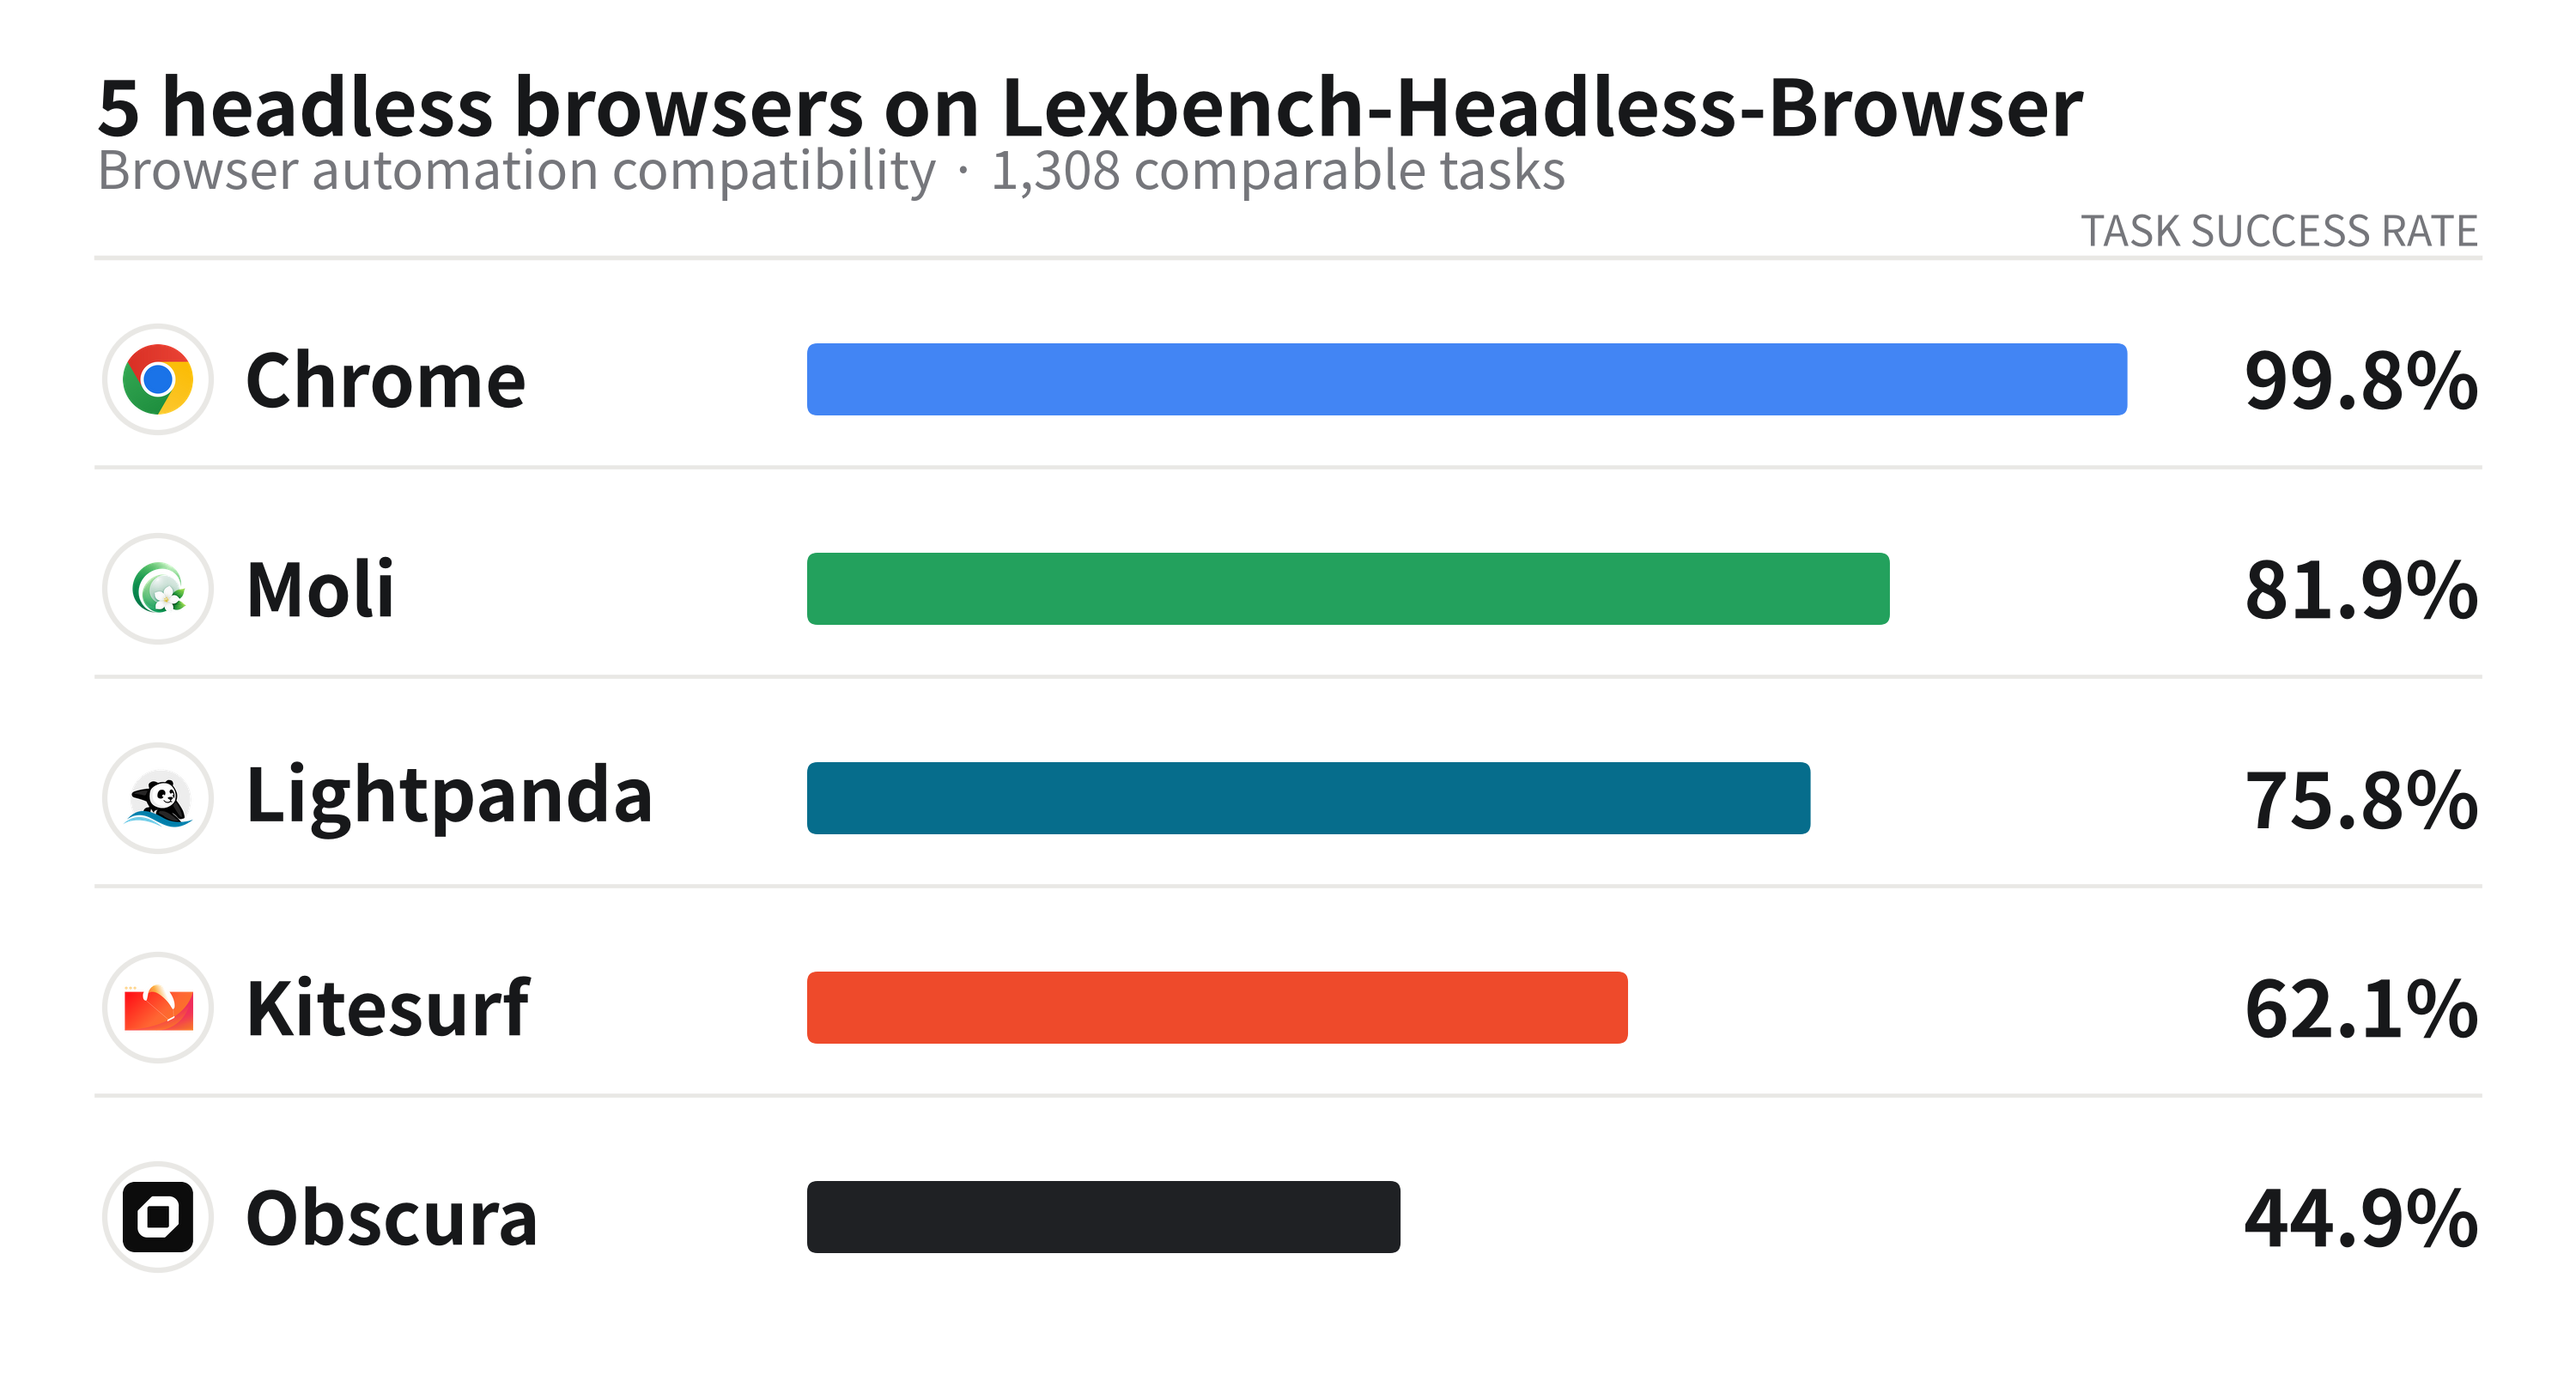
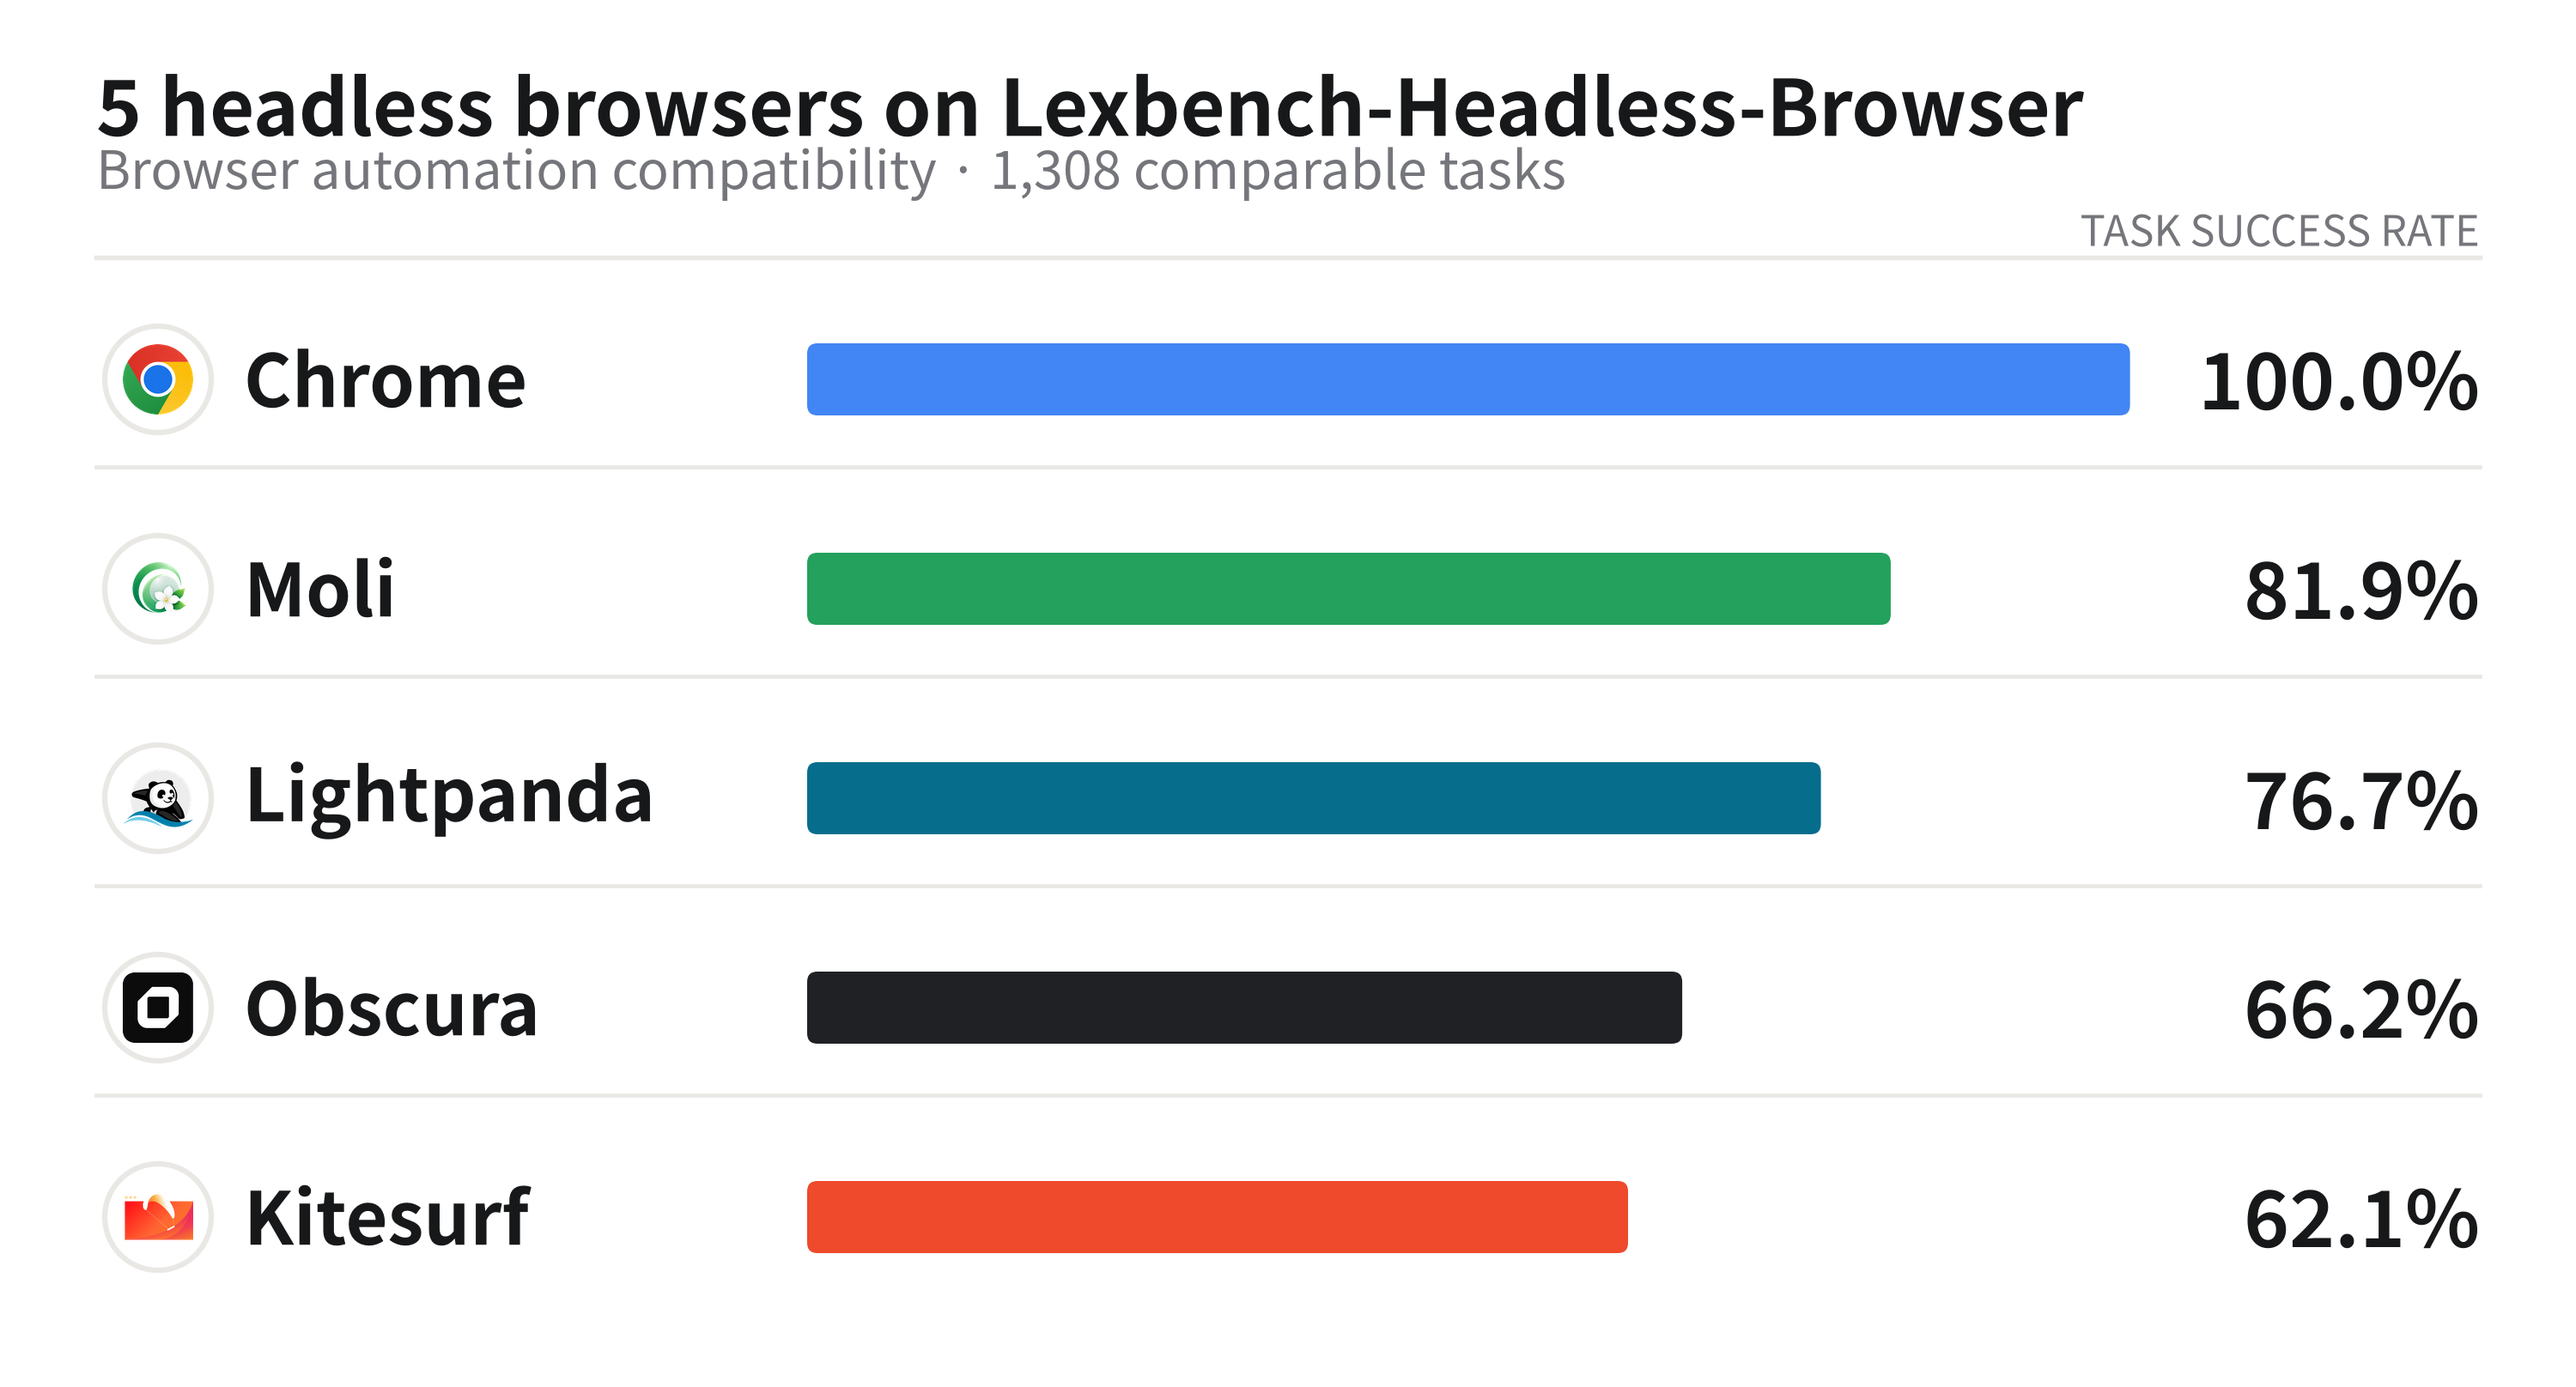
update results for all browsers

diff --git a/test/test_unit_checks.py b/test/test_unit_checks.py
@@ -471,10 +471,7 @@ def test_browser_automation_profile_only_enables_supported_serve_engines(engine)
         engine, binary, 9333, "browser_automation"
     )
     assert "--enable-automation" not in default
-    if engine == "moli":
-        assert automation == [*default, "--enable-automation"]
-    else:
-        assert automation == default
+    assert automation == default
 
 
 def test_serve_command_keeps_engine_specific_flags_isolated():

diff --git a/README.md b/README.md
@@ -39,7 +39,7 @@ Lexbench-Headless-Browser turns that premise into something testable: every task
 <div align="center">
   <picture>
     <source media="(prefers-color-scheme: dark)" srcset="docs/assets/four-engine-overview-dark.png">
-    <img alt="Task success rate of four headless browsers over 1,928 tasks: Chrome 99.9%, Lightpanda 80.8%, Moli 80.7%, Obscura 39.5%" src="docs/assets/four-engine-overview-light.png" width="100%">
+    <img alt="Task success rate of four headless browsers over 1,928 tasks: Chrome 100%, Lightpanda 81.4%, Moli 80.7%, Obscura 60.2%" src="docs/assets/four-engine-overview-light.png" width="100%">
   </picture>
 </div>
 
@@ -47,10 +47,10 @@ Lexbench-Headless-Browser turns that premise into something testable: every task
 
 | Engine | Version | Passed | Task success rate |
 |:---|:---|---:|---:|
-| [Chrome for Testing](https://googlechromelabs.github.io/chrome-for-testing/) | 151.0.7922.47 | 1,926 / 1,928 | **99.90%** |
-| [Lightpanda](https://github.com/lightpanda-io/browser) | 1.1.0-nightly.10552+dd2cd5d7f | 1,558 / 1,928 | **80.81%** |
-| [Moli](https://github.com/lexmount/moli) | 0.1.1 | 1,556 / 1,928 | **80.71%** |
-| [Obscura](https://github.com/h4ckf0r0day/obscura) | 0.1.11 | 762 / 1,928 | **39.52%** |
+| [Chrome for Testing](https://googlechromelabs.github.io/chrome-for-testing/) | 155.0.8059.79 | 1,928 / 1,928 | **100.00%** |
+| [Lightpanda](https://github.com/lightpanda-io/browser) | 1.0.1 | 1,569 / 1,928 | **81.38%** |
+| [Moli](https://github.com/lexmount/moli) | 1.1.17 | 1,556 / 1,928 | **80.71%** |
+| [Obscura](https://github.com/h4ckf0r0day/obscura) | 0.2.4 | 1,161 / 1,928 | **60.22%** |
 
 </div>
 
@@ -60,7 +60,7 @@ Lexbench-Headless-Browser turns that premise into something testable: every task
 <div align="center">
   <picture>
     <source media="(prefers-color-scheme: dark)" srcset="docs/assets/five-engine-caliber-b-dark.png">
-    <img alt="Task success rate of five headless browsers over 1,308 comparable tasks: Chrome 99.8%, Moli 81.9%, Lightpanda 75.8%, Kitesurf 62.1%, Obscura 44.9%" src="docs/assets/five-engine-caliber-b-light.png" width="100%">
+    <img alt="Task success rate of five headless browsers over 1,308 comparable tasks: Chrome 100%, Moli 81.9%, Lightpanda 76.7%, Obscura 66.2%, Kitesurf 62.1%" src="docs/assets/five-engine-caliber-b-light.png" width="100%">
   </picture>
 </div>
 
@@ -68,11 +68,11 @@ Lexbench-Headless-Browser turns that premise into something testable: every task
 
 | Engine | Comparable subset (1,308 tasks) |
 |:---|---:|
-| [Chrome for Testing](https://googlechromelabs.github.io/chrome-for-testing/) | 1,306 / 1,308 · **99.85%** |
+| [Chrome for Testing](https://googlechromelabs.github.io/chrome-for-testing/) | 1,308 / 1,308 · **100.00%** |
 | [Moli](https://github.com/lexmount/moli) | 1,071 / 1,308 · **81.88%** |
-| [Lightpanda](https://github.com/lightpanda-io/browser) | 992 / 1,308 · **75.84%** |
+| [Lightpanda](https://github.com/lightpanda-io/browser) | 1,003 / 1,308 · **76.68%** |
+| [Obscura](https://github.com/h4ckf0r0day/obscura) | 866 / 1,308 · **66.21%** |
 | [Kitesurf](https://blog.cloudflare.com/kitesurf/) (remote) | 812 / 1,308 · **62.08%** |
-| [Obscura](https://github.com/h4ckf0r0day/obscura) | 587 / 1,308 · **44.88%** |
 
 </div>
 
@@ -80,25 +80,25 @@ This comparison uses a subset of the same 1,928-task set: tasks whose failures c
 
 </details>
 
-Run parameters: run id `four_engine_full_20260812`, bench tag `2026.08.02-v0_4.1`, seed `official20260709`, k=3, 23,136 result rows. A task counts as passed only when all three attempts pass. Each engine is scored on its own attempts (`--score-mode independent`); Chrome is the reference column. Full report: [docs/reports/four-engine-report-20260812.md](docs/reports/four-engine-report-20260812.md).
+Run parameters: run id `four_engine_full_20261016`, dataset version `0.4.2`, seed `official20260709`, k=3, 23,136 result rows. A task counts as passed only when all three attempts pass. Each engine is scored on its own attempts (`--score-mode independent`); Chrome is the reference column. Full report: [docs/reports/four-engine-report-20261016.md](docs/reports/four-engine-report-20261016.md).
 
 > [!NOTE]
 > If you care about [Kitesurf](https://blog.cloudflare.com/kitesurf/), the agent-first cloud browser Cloudflare just launched, its evaluation lives on the [`kitesurf-eval`](https://github.com/lexmount/Lexbench-Headless-Browser/blob/kitesurf-eval/README.md) branch. Kitesurf currently exists only as a remote endpoint, with no binary digest and no resource measurement, and the five-engine results are published on that branch.
 
 ## Resource Cost
 
-The lightweight engines' biggest selling point is low resource use, and whether the replacement case holds also depends on how much they actually save, so resources are measured with the same rigor as compatibility. The task set is `l1.raw_cdp` (375 tasks) plus L2's `l2.web_platform` subset (182 tasks), 557 in total; the resource round runs strictly serial (`--jobs 1`) so engines never compete for the machine. Every resource statistic is computed only on the task-attempt intersection that all four engines passed (1,045 attempts): comparing cost makes sense only when everyone finished the same work, and a task an engine failed never enters its resource account.
+The lightweight engines' biggest selling point is low resource use, and whether the replacement case holds also depends on how much they actually save, so resources are measured with the same rigor as compatibility. The task set is `l1.raw_cdp` (375 tasks) plus L2's `l2.web_platform` subset (182 tasks), 557 in total; the resource round runs strictly serial (`--jobs 1`) so engines never compete for the machine. Every resource statistic is computed only on the task-attempt intersection that all four engines passed (1,321 attempts): comparing cost makes sense only when everyone finished the same work, and a task an engine failed never enters its resource account.
 
-Because observing a process can itself distort the numbers, the measurement is a two-round A/B design: the same tasks run once with the profiler off as a baseline, then once with it on, and the two rounds are compared to quantify the disturbance of observing. Numbers are recorded only when that disturbance clears the calibration gate (`resource_comparison_eligible: true`).
+Because observing a process can itself distort the numbers, the measurement is a two-round A/B design: the same tasks run once with the profiler off as a baseline, then once with it on, and the two rounds are compared to quantify the disturbance of observing. A round is eligible (`resource_comparison_eligible: true`) only when that disturbance clears the calibration gate. The current round is not eligible: Obscura's Fetch interception tasks flipped between pass and fail across the two rounds, and the host was using swap. Read the numbers below as indicative.
 
 <div align="center">
   <picture>
     <source media="(prefers-color-scheme: dark)" srcset="docs/assets/efficiency-map-dark.png">
-    <img alt="Task success rate plotted against median peak memory per task: Chrome at 99.9% and 697 MiB, Moli at 80.7% and 92 MiB, Lightpanda at 80.8% and 34 MiB, Obscura at 39.5% and 39 MiB" src="docs/assets/efficiency-map-light.png" width="100%">
+    <img alt="Task success rate plotted against median peak memory per task: Chrome at 100% and 730 MiB, Moli at 80.7% and 74 MiB, Lightpanda at 81.4% and 34 MiB, Obscura at 60.2% and 45 MiB" src="docs/assets/efficiency-map-light.png" width="100%">
   </picture>
 </div>
 
-Median peak process-tree memory per task: Lightpanda 34 MiB, Obscura 39 MiB, Moli 92 MiB, Chrome 697 MiB. Median engine CPU time per task on the same set: 36 ms, 38 ms, 101 ms, 687 ms. Details and the calibration record are in the [resource card](docs/reports/resource-card-20260812.md).
+Median peak process-tree memory per task: Lightpanda 34 MiB, Obscura 45 MiB, Moli 74 MiB, Chrome 730 MiB. Median engine CPU time per task on the same set: 7 ms, 14 ms, 24 ms, 177 ms. Details and the calibration record are in the [resource card](docs/reports/resource-card-20261016.md).
 
 ## Quick Start
 
@@ -127,7 +127,7 @@ A smoke round finishes in minutes, with per-task pass/fail in `runs/<run-id>/res
 
 ## Benchmark Composition
 
-Current dataset version `0.4.2`: 1,928 tasks in 18 subsets, on two layers. The published run above remains pinned to `0.4.1` (recorded in its manifest as `2026.08.02-v0_4.1`, the dated label used before the version scheme was unified). The difference is a PATCH: task descriptions and non-executable metadata, not task membership, drivers, graders, fixtures, or capability assignments. How the dataset and harness versions are bumped: [Versioning](docs/RESULTS.md#versioning).
+Current dataset version `0.4.2`: 1,928 tasks in 18 subsets, on two layers. The published run above uses this version. How the dataset and harness versions are bumped: [Versioning](docs/RESULTS.md#versioning).
 
 **L1 measures protocol and driver compatibility (1,740 tasks) across two paths:**
 

diff --git a/docs/RESULTS.md b/docs/RESULTS.md
@@ -53,7 +53,7 @@ For multi-step workflow tasks the grading is two-gated: the driver's step checks
 
 Resource figures come from the separate A/B-calibrated round documented in [resource-cost.md](resource-cost.md) and [REPRODUCE.md](REPRODUCE.md). When reading them:
 
-- They are computed on the 1,045 task-attempt intersection that all four engines passed. A failed task never enters an engine's account as a cheap failure.
+- They are computed on the 1,321 task-attempt intersection that all four engines passed. A failed task never enters an engine's account as a cheap failure.
 - They describe the 557-task resource set and do not extrapolate to the full corpus.
 - Filled values are medians; the resource card also carries p95 values, PSS deltas, process counts and fixture traffic.
 - A remote engine has no process tree on the measuring machine. An empty cell means unmeasurable, never zero.
@@ -88,7 +88,7 @@ The fixture tree belongs to this axis: editing a fixture changes results, so it 
 
 **Harness — `runner/version.py`, currently `0.1.0`.** The code that runs the dataset, mirrored in `pyproject.toml` and `package.json`. Bumping it does not change what is being measured, so runs stay comparable across it. Runs record it as `harness_version`.
 
-Runs predating this scheme carry a dated label instead: the three published runs record `2026.08.02-v0_4.1`, which is `0.4.1` here, and its difference from `0.4.2` is PATCH — descriptions only, fully comparable. Neither number is what makes a run reproducible. `run_manifest.json` pins the manifest, fixture tree, runner source and capability map by sha256, and those digests are the identity a re-run is checked against; the versions are the labels that let a reader skip the check.
+Runs predating this scheme carry a dated label instead: the three 2026-08-12 runs record `2026.08.02-v0_4.1`, which is `0.4.1` here, and its difference from `0.4.2` is PATCH — descriptions only, fully comparable. Neither number is what makes a run reproducible. `run_manifest.json` pins the manifest, fixture tree, runner source and capability map by sha256, and those digests are the identity a re-run is checked against; the versions are the labels that let a reader skip the check.
 
 ## Boundaries
 
